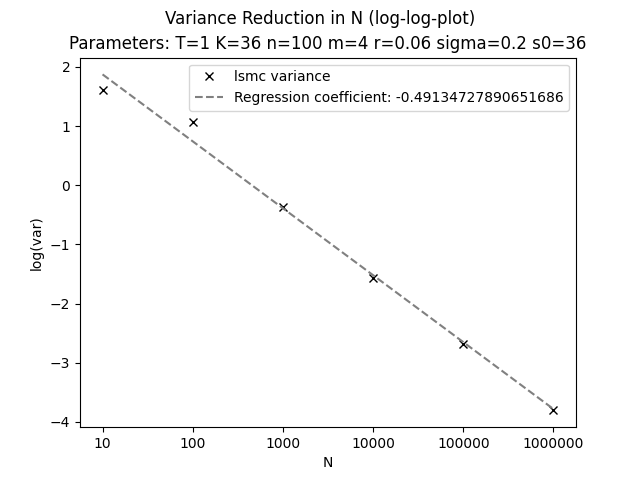
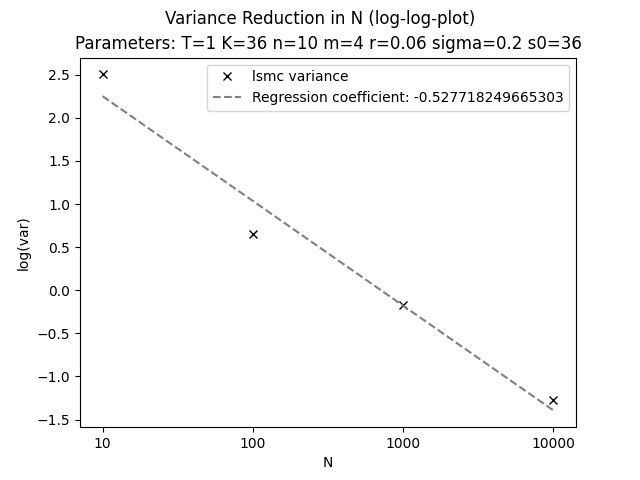
Update LSMC (for BlackScholes)

diff --git a/Pricing/AmercianMonteCarlo/tests/test_LonstaffSchwartzMonteCarlo.py b/Pricing/AmercianMonteCarlo/tests/test_LonstaffSchwartzMonteCarlo.py
@@ -3,6 +3,7 @@ import numpy as np
 
 from Pricing.AmercianMonteCarlo.LongstaffSchwartzMonteCarlo import LongstaffSchwartzMonteCarlo as lsmc
 from Market.BlackScholes import BlackScholes
+from Market.Heston import Heston
 from Pricing.TheoreticalPrices import BlackScholesOptionPrices
 
 
@@ -11,7 +12,6 @@ class MyTestCase(unittest.TestCase):
     def test_lsm_init(self):
         bs_instance = BlackScholes(0, 1, 100, 0.05, 0.2)
         lsm_instance = lsmc(bs_instance, lambda x: np.maximum(100 - x, 0), 10, 100)
-        lsm_instance.compute_option_price()
         self.assertTrue(True)
 
     def test_dict_convertion(self):
@@ -21,7 +21,25 @@ class MyTestCase(unittest.TestCase):
         for key in example_dict.keys():
             asset_price[key] = example_dict[key]
 
-    def test_theoretical_value(self):
+    def test_functionality_black_scholes(self):
+        t_start = 0
+        t_end = 1
+        r = 0.06
+        sigma = 0.2
+        s0 = 36
+        strike = 33
+        bs_instance = BlackScholes(t_start=t_start, t_end=t_end, s0=s0, r=r, sigma=sigma)
+        n_paths = 10
+        n_steps = 10
+        payoff = lambda x: np.maximum(x - strike, 0)
+        try:
+            lsm_instance = lsmc(bs_instance, payoff=payoff, n_paths=n_paths, n_steps=n_steps)
+            lsm_instance.compute_option_price()
+            self.assertTrue(True)
+        except Exception as e:
+            self.fail(f"Error: {e} was raised")
+
+    def test_theoretical_value_black_scholes(self):
         t_start = 0
         t_end = 1
         r = 0.06
@@ -38,6 +56,11 @@ class MyTestCase(unittest.TestCase):
         theoretical_call_price = theoretical_instance.call_option_theoretical_price(strike)
         epsilon = 0.5
         self.assertTrue(theoretical_call_price - epsilon < lsm_instance.value_0 < theoretical_call_price + epsilon)
+
+    def test_functionality_heston(self):
+        # TODO: Look up how to implement this properly (try-catch-block?)
+
+        self.assertTrue(False)
 
 
 if __name__ == '__main__':

diff --git a/analysis/LSMC_convergence_speed.py b/analysis/LSMC_convergence_speed.py
@@ -1,0 +1,56 @@
+from Market.BlackScholes import BlackScholes
+from Pricing.AmercianMonteCarlo.LongstaffSchwartzMonteCarlo import LongstaffSchwartzMonteCarlo as lsmc
+
+import numpy as np
+import time
+import matplotlib.pyplot as plt
+
+
+t_start = 0
+t_end = 1
+r = 0.06
+sigma = 0.2
+s0 = 36
+strike = 33
+bs_instance = BlackScholes(t_start=t_start, t_end=t_end, s0=s0, r=r, sigma=sigma)
+payoff = lambda x: np.maximum(x - strike, 0)
+degree = 5
+#n_paths = [1000, 5000, 10000, 20000, 30000, 40000, 50000, 100000]
+n_paths = [10**i for i in range(1, 7)]
+#n_paths = [10, 20, 30, 40, 50]
+n_steps = 100
+res = np.zeros(shape=(len(n_paths), 5))
+
+for N in n_paths:
+    t_start = time.time()
+    bs_instance.generate_scenarios(n_paths=N, n_steps=n_steps)
+    lsm_instance = lsmc(bs_instance, payoff=payoff, n_paths=N, n_steps=n_steps)
+    lsm_instance.set_degree(degree)
+    lsm_instance.compute_option_price()
+    end = time.time()
+    res[n_paths.index(N), 0] = N
+    res[n_paths.index(N), 1] = lsm_instance.value_0
+    res[n_paths.index(N), 2] = lsm_instance.var_mc
+    res[n_paths.index(N), 3] = lsm_instance.rmse
+    res[n_paths.index(N), 4] = end - t_start
+
+#plt.plot(np.log(res[:, 0]), np.log(res[:, 2]))
+#plt.xlabel("log(N)")
+#plt.ylabel("log(Variance)")
+#plt.show()
+
+
+
+plt.plot(np.log(res[:, 0]), np.log(res[:, 2]), 'x', color='black')
+slope, intercept = np.polyfit(np.log(res[:, 0]), np.log(res[:, 2]), 1)
+fitted_values = slope*np.log(res[:, 0]) + intercept
+plt.plot(np.log(res[:, 0]), fitted_values, color='grey', linestyle='--')
+plt.xticks(np.log(res[:, 0]), res[:, 0])
+plt.xlabel('N')
+plt.ylabel('log(var)')
+plt.legend(['lsmc variance', 'Regression coefficient: ' + str(slope)])
+plt.suptitle('Variance Reduction in N (log-log-plot)')
+plt.title('Parameters: T=' + str(t_end) + ' K=' + str(strike) + ' n=' + str(n_steps) + ' m=' + str(degree) +
+          ' r=' + str(r) + ' sigma='+ str(sigma) + ' s0=' + str(s0))
+plt.savefig('convergence_N_variance_new_algo.png')
+plt.show()

diff --git a/Pricing/AmercianMonteCarlo/LongstaffSchwartzMonteCarlo.py b/Pricing/AmercianMonteCarlo/LongstaffSchwartzMonteCarlo.py
@@ -17,6 +17,7 @@ class LongstaffSchwartzMonteCarlo:
         self.underlying_instance = underlying_instance
         self.n_paths = n_paths
         self.n_steps = n_steps
+        self.__check_for_market_scenarios()
         self.payoff = payoff
         self.regressiontype = "polynomial"
         self.time_grid = underlying_instance.time_grid_instance.get_time_grid(self.n_steps)
@@ -57,11 +58,13 @@ class LongstaffSchwartzMonteCarlo:
     def __check_for_market_scenarios(self):
         if len(self.underlying_instance.scenarios.keys()) == 0:
             self.underlying_instance.generate_scenarios(n_paths=self.n_paths, n_steps=self.n_steps)
+        else:
+            assert len(self.underlying_instance.scenarios) == self.n_paths, "Number of paths must be equal to number of scenarios"
 
     def compute_option_price(self, return_type=False) -> np.array:
-        self.__check_for_market_scenarios()
         asset_price = np.zeros(shape=(len(self.underlying_instance.scenarios), self.n_steps))
         for key in self.underlying_instance.scenarios.keys():
+            # TODO: Control for stochastic volatility models here!!
             asset_price[key] = self.underlying_instance.scenarios[key]
         value = np.zeros_like(asset_price)
 
